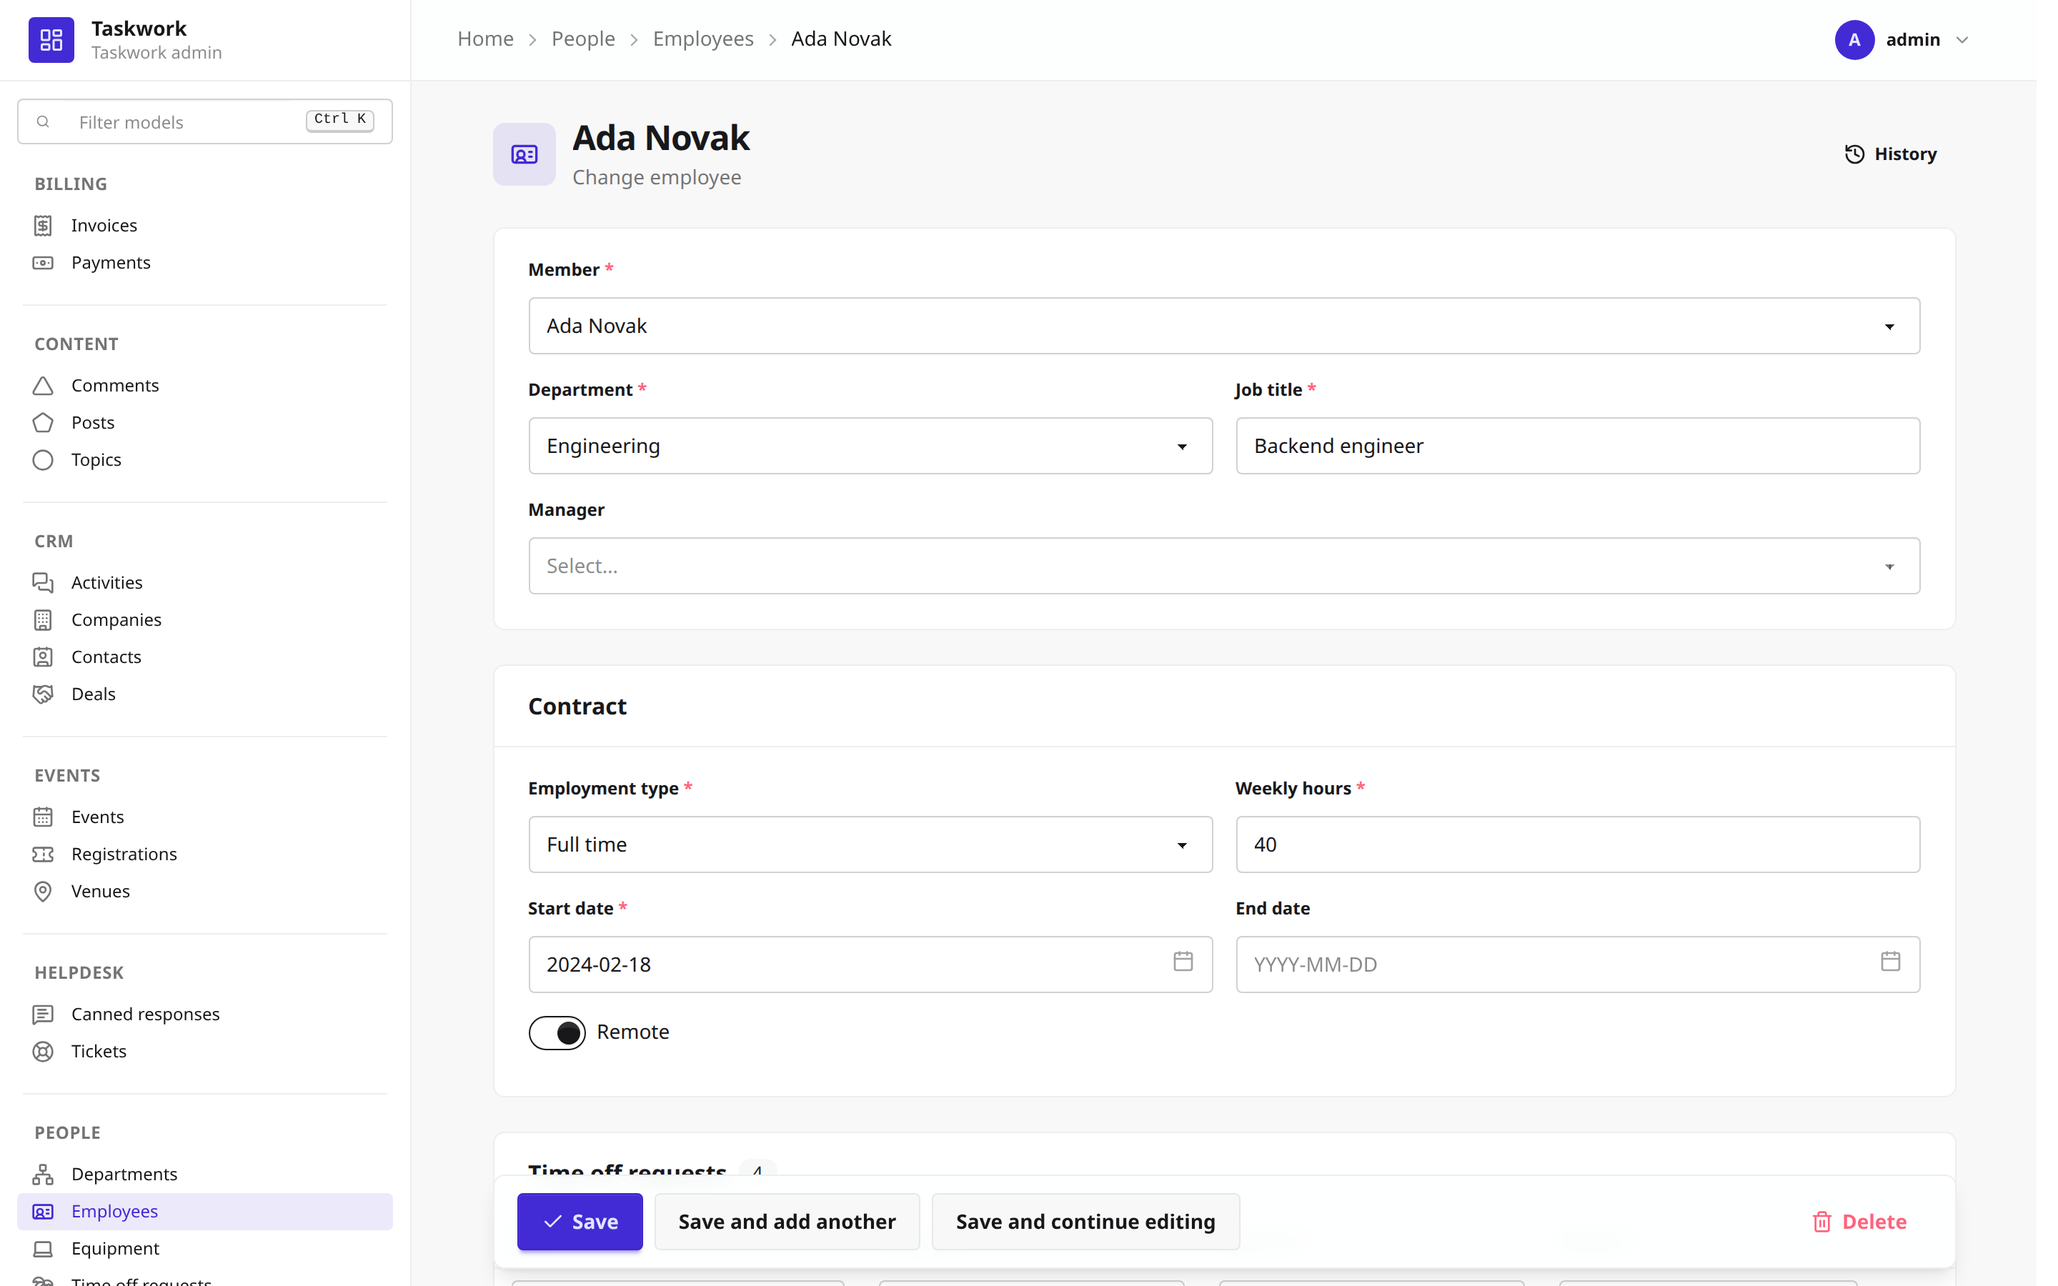
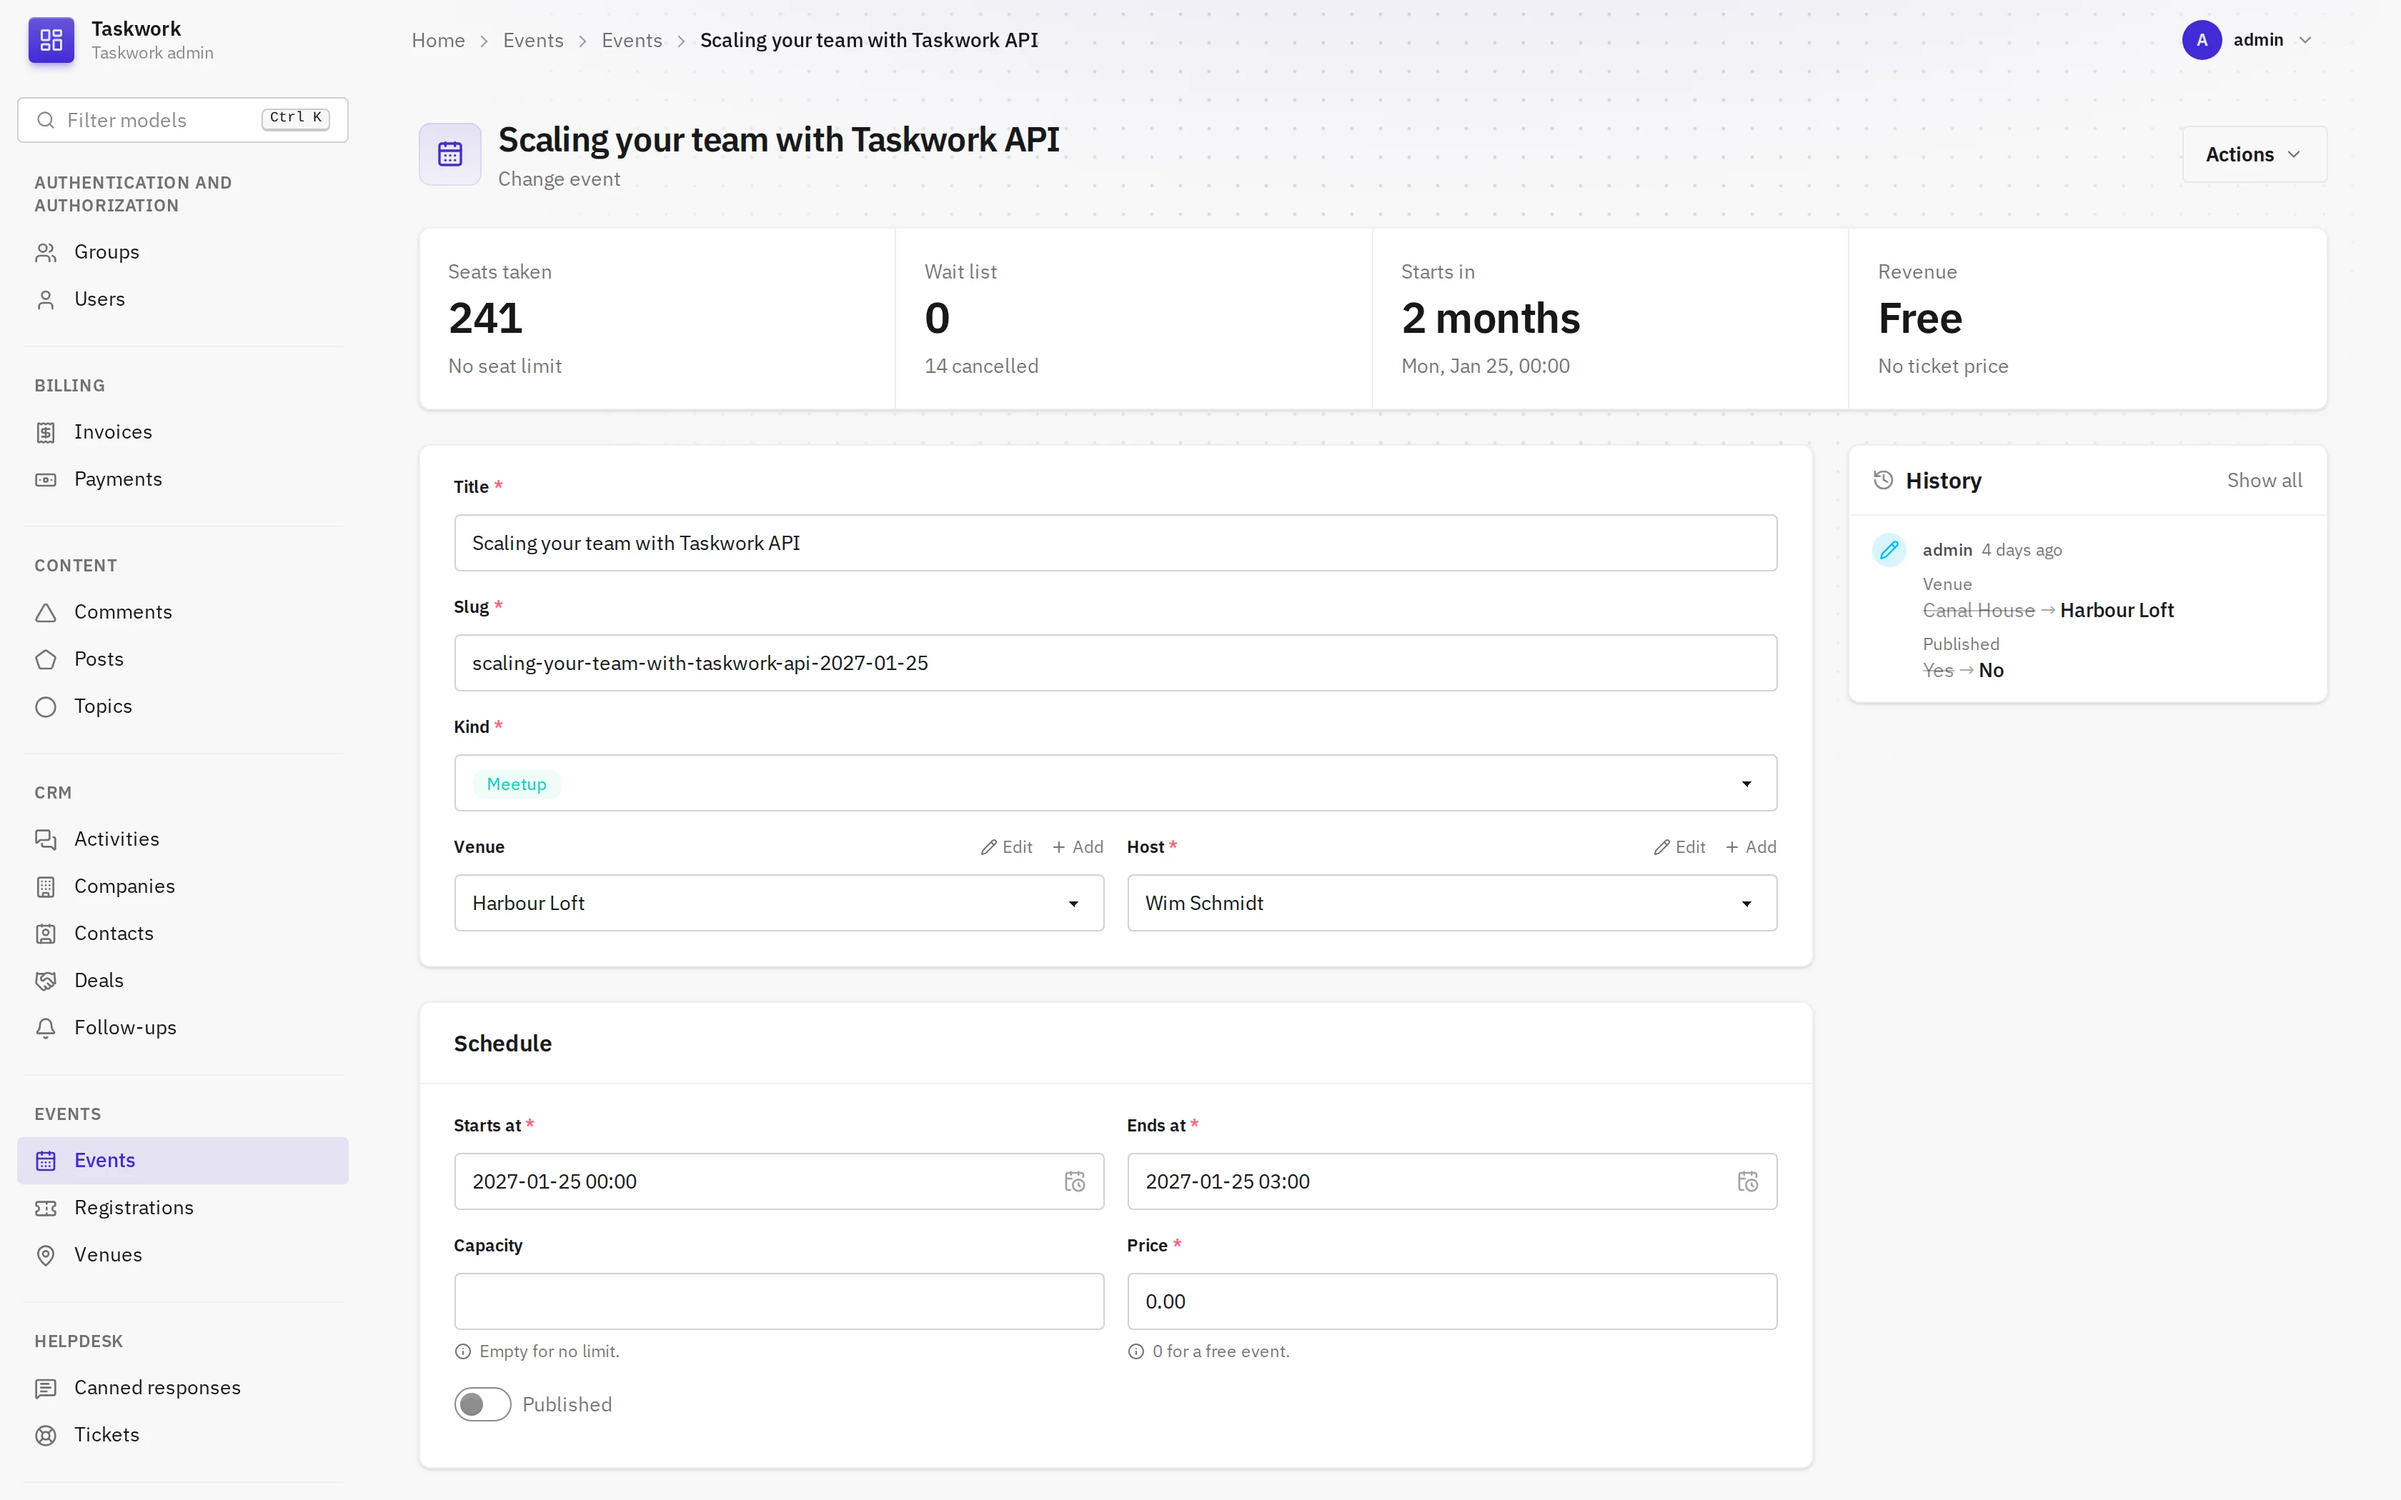
docs(admin): show current screenshots of the ticket, event and deal lists

diff --git a/docs/reference/admin.md b/docs/reference/admin.md
@@ -18,7 +18,7 @@ class TicketAdmin(admin.ModelAdmin):
     inlines = [ReplyInline]
 ```
 
-![The ticket list with a status filter set](../img/admin/changelist.webp)
+![The ticket list with the replies of a ticket open under its row](../img/admin/changelist.webp)
 
 The classes are its own. A `ModelAdmin` does not subclass Django's, so an admin class
 written for `django.contrib.admin` that calls into Django's internals needs changes.
@@ -332,7 +332,7 @@ A `class Media` on a `ModelAdmin` or an inline adds its CSS and JavaScript to th
 of that admin, as in Django. Django's admin also loads jQuery on these pages, and this
 admin does not, so a script that uses `django.jQuery` does not run here.
 
-![The change form of an employee](../img/admin/change-form.webp)
+![The change form of an event, with its history](../img/admin/change-form.webp)
 
 Options this admin adds:
 
@@ -568,6 +568,8 @@ a list with many editable columns still reads as a table, a field shows its box 
 row under the pointer or with the focus. In the other rows its value shows as text, lined
 up with the column header, and the icons of a select or a date hide. A date and its time
 share one line, so a row stays one field high.
+
+![The event list with editable columns](../img/admin/changelist-editable.webp)
 
 A cell whose value differs from the saved one gets the accent color, and the toolbar above
 the table counts the changed cells. Save saves the rows, and Discard loads the saved values

diff --git a/README.md b/README.md
@@ -58,10 +58,12 @@ Keep the scripts in this order. htmx's alpine-compat extension is required: with
 from django_formwork import admin
 ```
 
-![The ticket list with a status filter set](https://raw.githubusercontent.com/oliverhaas/django-formwork/main/docs/img/admin/changelist.webp)
+![The ticket list with the replies of a ticket open under its row](https://raw.githubusercontent.com/oliverhaas/django-formwork/main/docs/img/admin/changelist.webp)
+
+![The event list with editable columns](https://raw.githubusercontent.com/oliverhaas/django-formwork/main/docs/img/admin/changelist-editable.webp)
 
 <p>
-  <img src="https://raw.githubusercontent.com/oliverhaas/django-formwork/main/docs/img/admin/change-form.webp" alt="The change form of an employee" width="49%">
+  <img src="https://raw.githubusercontent.com/oliverhaas/django-formwork/main/docs/img/admin/change-form.webp" alt="The change form of an event, with its history" width="49%">
   <img src="https://raw.githubusercontent.com/oliverhaas/django-formwork/main/docs/img/admin/changelist-dark.webp" alt="The deal list in the dark theme" width="49%">
 </p>
 

diff --git a/docs/index.md b/docs/index.md
@@ -10,7 +10,7 @@ The widgets are `Select`, `SelectMultiple`, `ComboBox`, `ComboBoxMultiple`, `Tex
 
 `django_formwork.admin` is a Django admin built on formwork forms, django-filter, htmx and Jinja2. It keeps the options, hooks, URL names and permissions of `django.contrib.admin`, so most `admin.py` modules port by changing `from django.contrib import admin` to `from django_formwork import admin`. The admin is experimental; [Admin](reference/admin.md) covers the setup and every option.
 
-![The ticket list with a status filter set](img/admin/changelist.webp)
+![The ticket list with the replies of a ticket open under its row](img/admin/changelist.webp)
 
 ## Requirements
 
